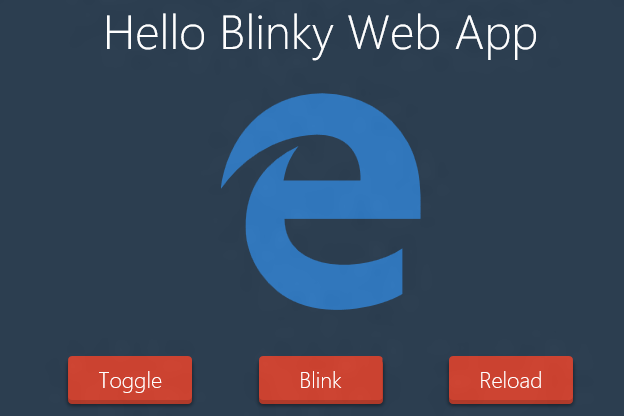
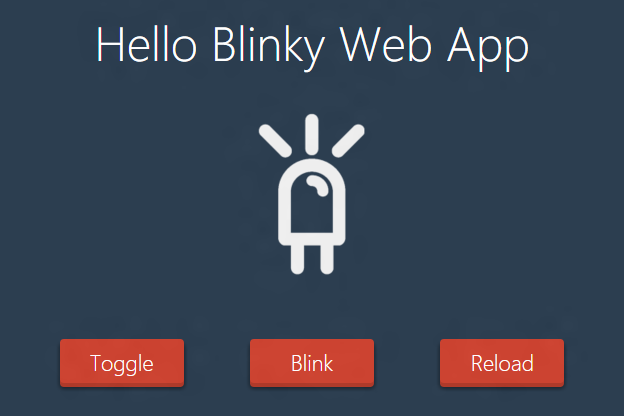
Updating solution

diff --git a/IoTCoreDefaultApp/IoTCoreDefaultApp/Views/TutorialMainPage.xaml b/IoTCoreDefaultApp/IoTCoreDefaultApp/Views/TutorialMainPage.xaml
@@ -150,7 +150,7 @@
                             <ColumnDefinition Width="4"/>
                         </Grid.ColumnDefinitions>
 
-                        <Image x:Name="S2Image" Grid.Row="0" Grid.Column="1" Grid.ColumnSpan="3" Source="ms-appx:///Assets/Tutorials/js_browser.png" Width="317"/>
+                        <Image x:Name="S2Image" Grid.Row="0" Grid.Column="1" Grid.ColumnSpan="3" Source="ms-appx:///Assets/Tutorials/twit-on-pi.png" Width="317"/>
                         <StackPanel VerticalAlignment="Bottom" Grid.Row="2" Grid.Column="2">
                             <TextBlock Text="{Binding [S2TitleText]}" Style="{StaticResource EdgeSampleTitleTextBlockStyle}" TextWrapping="WrapWholeWords" Width="317"/>
                             <TextBlock Text="{Binding [S2DescriptionText]}" Style="{StaticResource EdgeSampleDescriptionTextBlockStyle}"  TextWrapping="WrapWholeWords" Width="317"/>

diff --git a/IoTCoreDefaultApp/IoTCoreDefaultApp/Views/TutorialMainPage.xaml.cs b/IoTCoreDefaultApp/IoTCoreDefaultApp/Views/TutorialMainPage.xaml.cs
@@ -130,16 +130,16 @@ namespace IoTCoreDefaultApp
             switch (item.Name)
             {
                 case "S1":
-                    AppLaunch(new Uri("edgeonpi1:launch"), new Uri("http://seksenov.github.io/WebHelloBlinky/"));
+                    AppLaunch(new Uri("webonpi1:launch"), new Uri("http://seksenov.github.io/WebHelloBlinky/"));
                     break;
                 case "S2":
-                    AppLaunch(new Uri("edgeonpi2:launch"), new Uri("http://microsoftedge.github.io/JSBrowser/"));
+                    AppLaunch(new Uri("webonpi2:launch"), new Uri("http://microsoftedge.github.io/JSBrowser/"));
                     break;
                 case "S3":
-                    NavigateToSample(new Uri("http://codepen.io/seksenov/pen/bERWWw"));
+                    AppLaunch(new Uri("webonpi3:launch"), new Uri("http://codepen.io/seksenov/pen/bERWWw"));
                     break;
                 case "S4":
-                    AppLaunch(new Uri("edgeonpi4:launch"), new Uri("http://windowstodo.meteor.com/"));
+                    AppLaunch(new Uri("webonpi4:launch"), new Uri("http://windowstodo.meteor.com/"));
                     break;
                 default:
                     NavigationUtils.NavigateToScreen(typeof(TutorialContentPage), item.Name);

diff --git a/IoTCoreDefaultApp/IoTCoreDefaultApp/App.xaml.cs b/IoTCoreDefaultApp/IoTCoreDefaultApp/App.xaml.cs
@@ -110,7 +110,7 @@ namespace IoTCoreDefaultApp
 #if !FORCE_OOBE_WELCOME_SCREEN
                 if (ApplicationData.Current.LocalSettings.Values.ContainsKey(Constants.HasDoneOOBEKey))
                 {
-                    rootFrame.Navigate(typeof(MainPage), e.Arguments);
+                    rootFrame.Navigate(typeof(TutorialMainPage), e.Arguments);
                 }
                 else
 #endif
